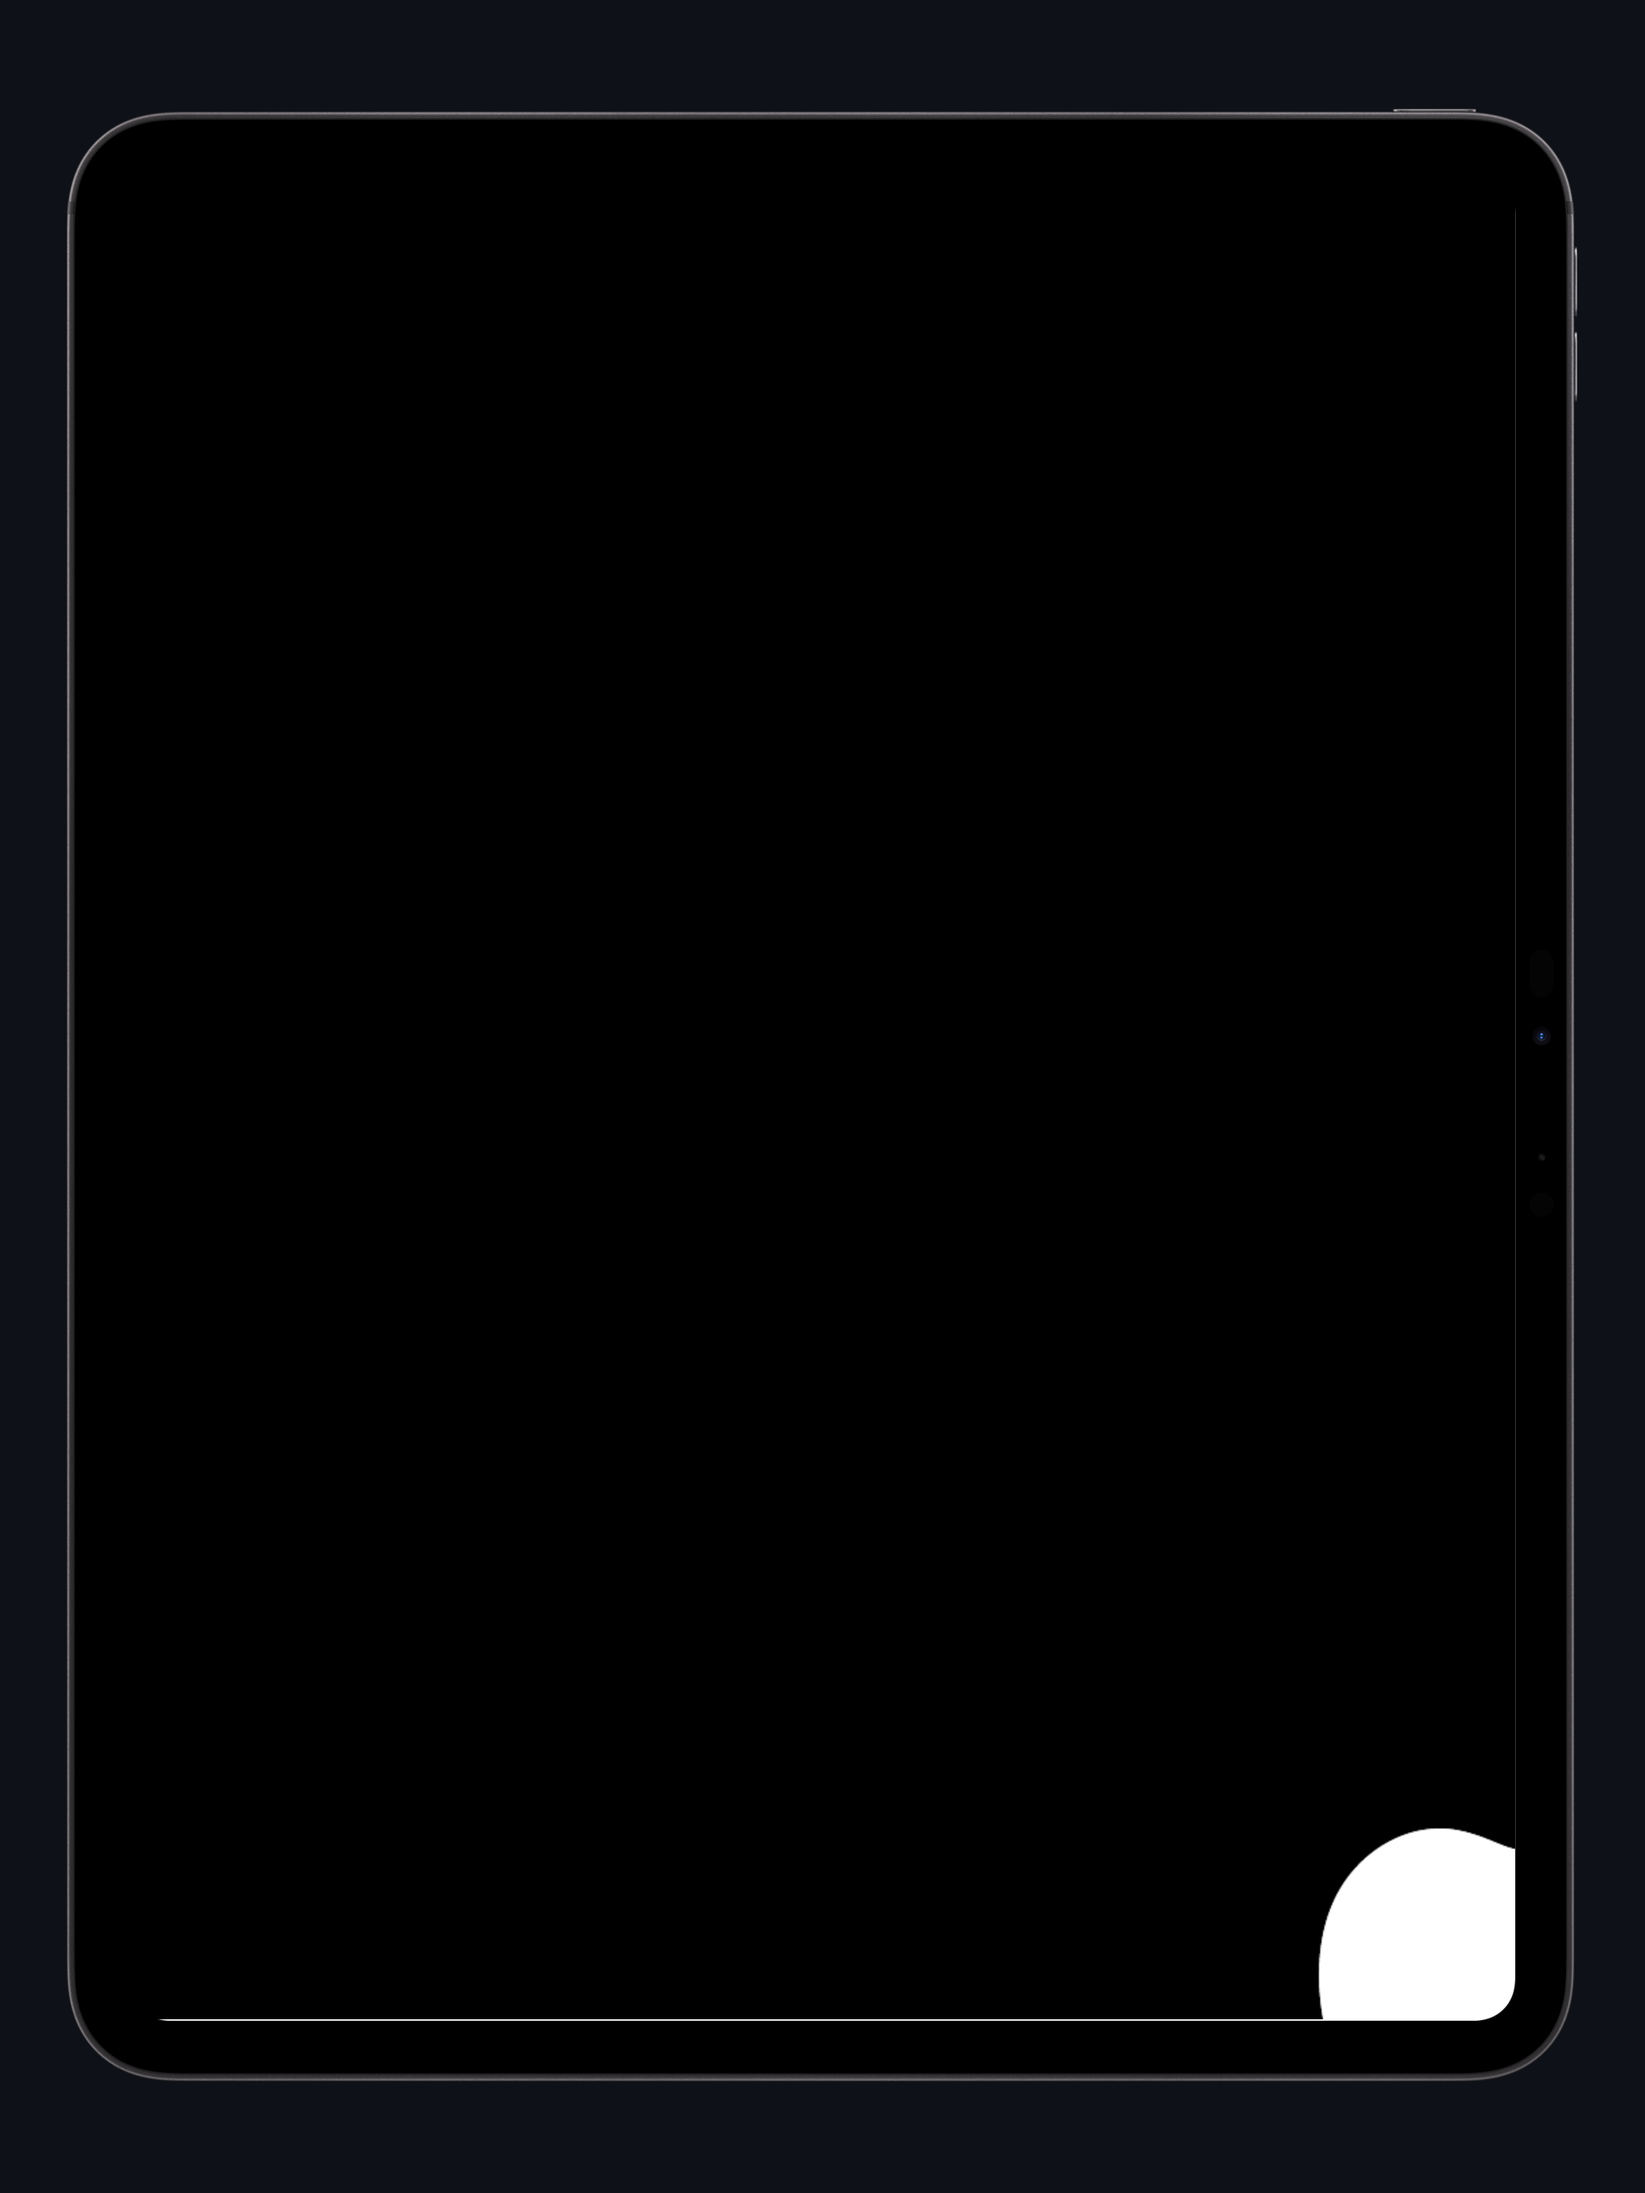
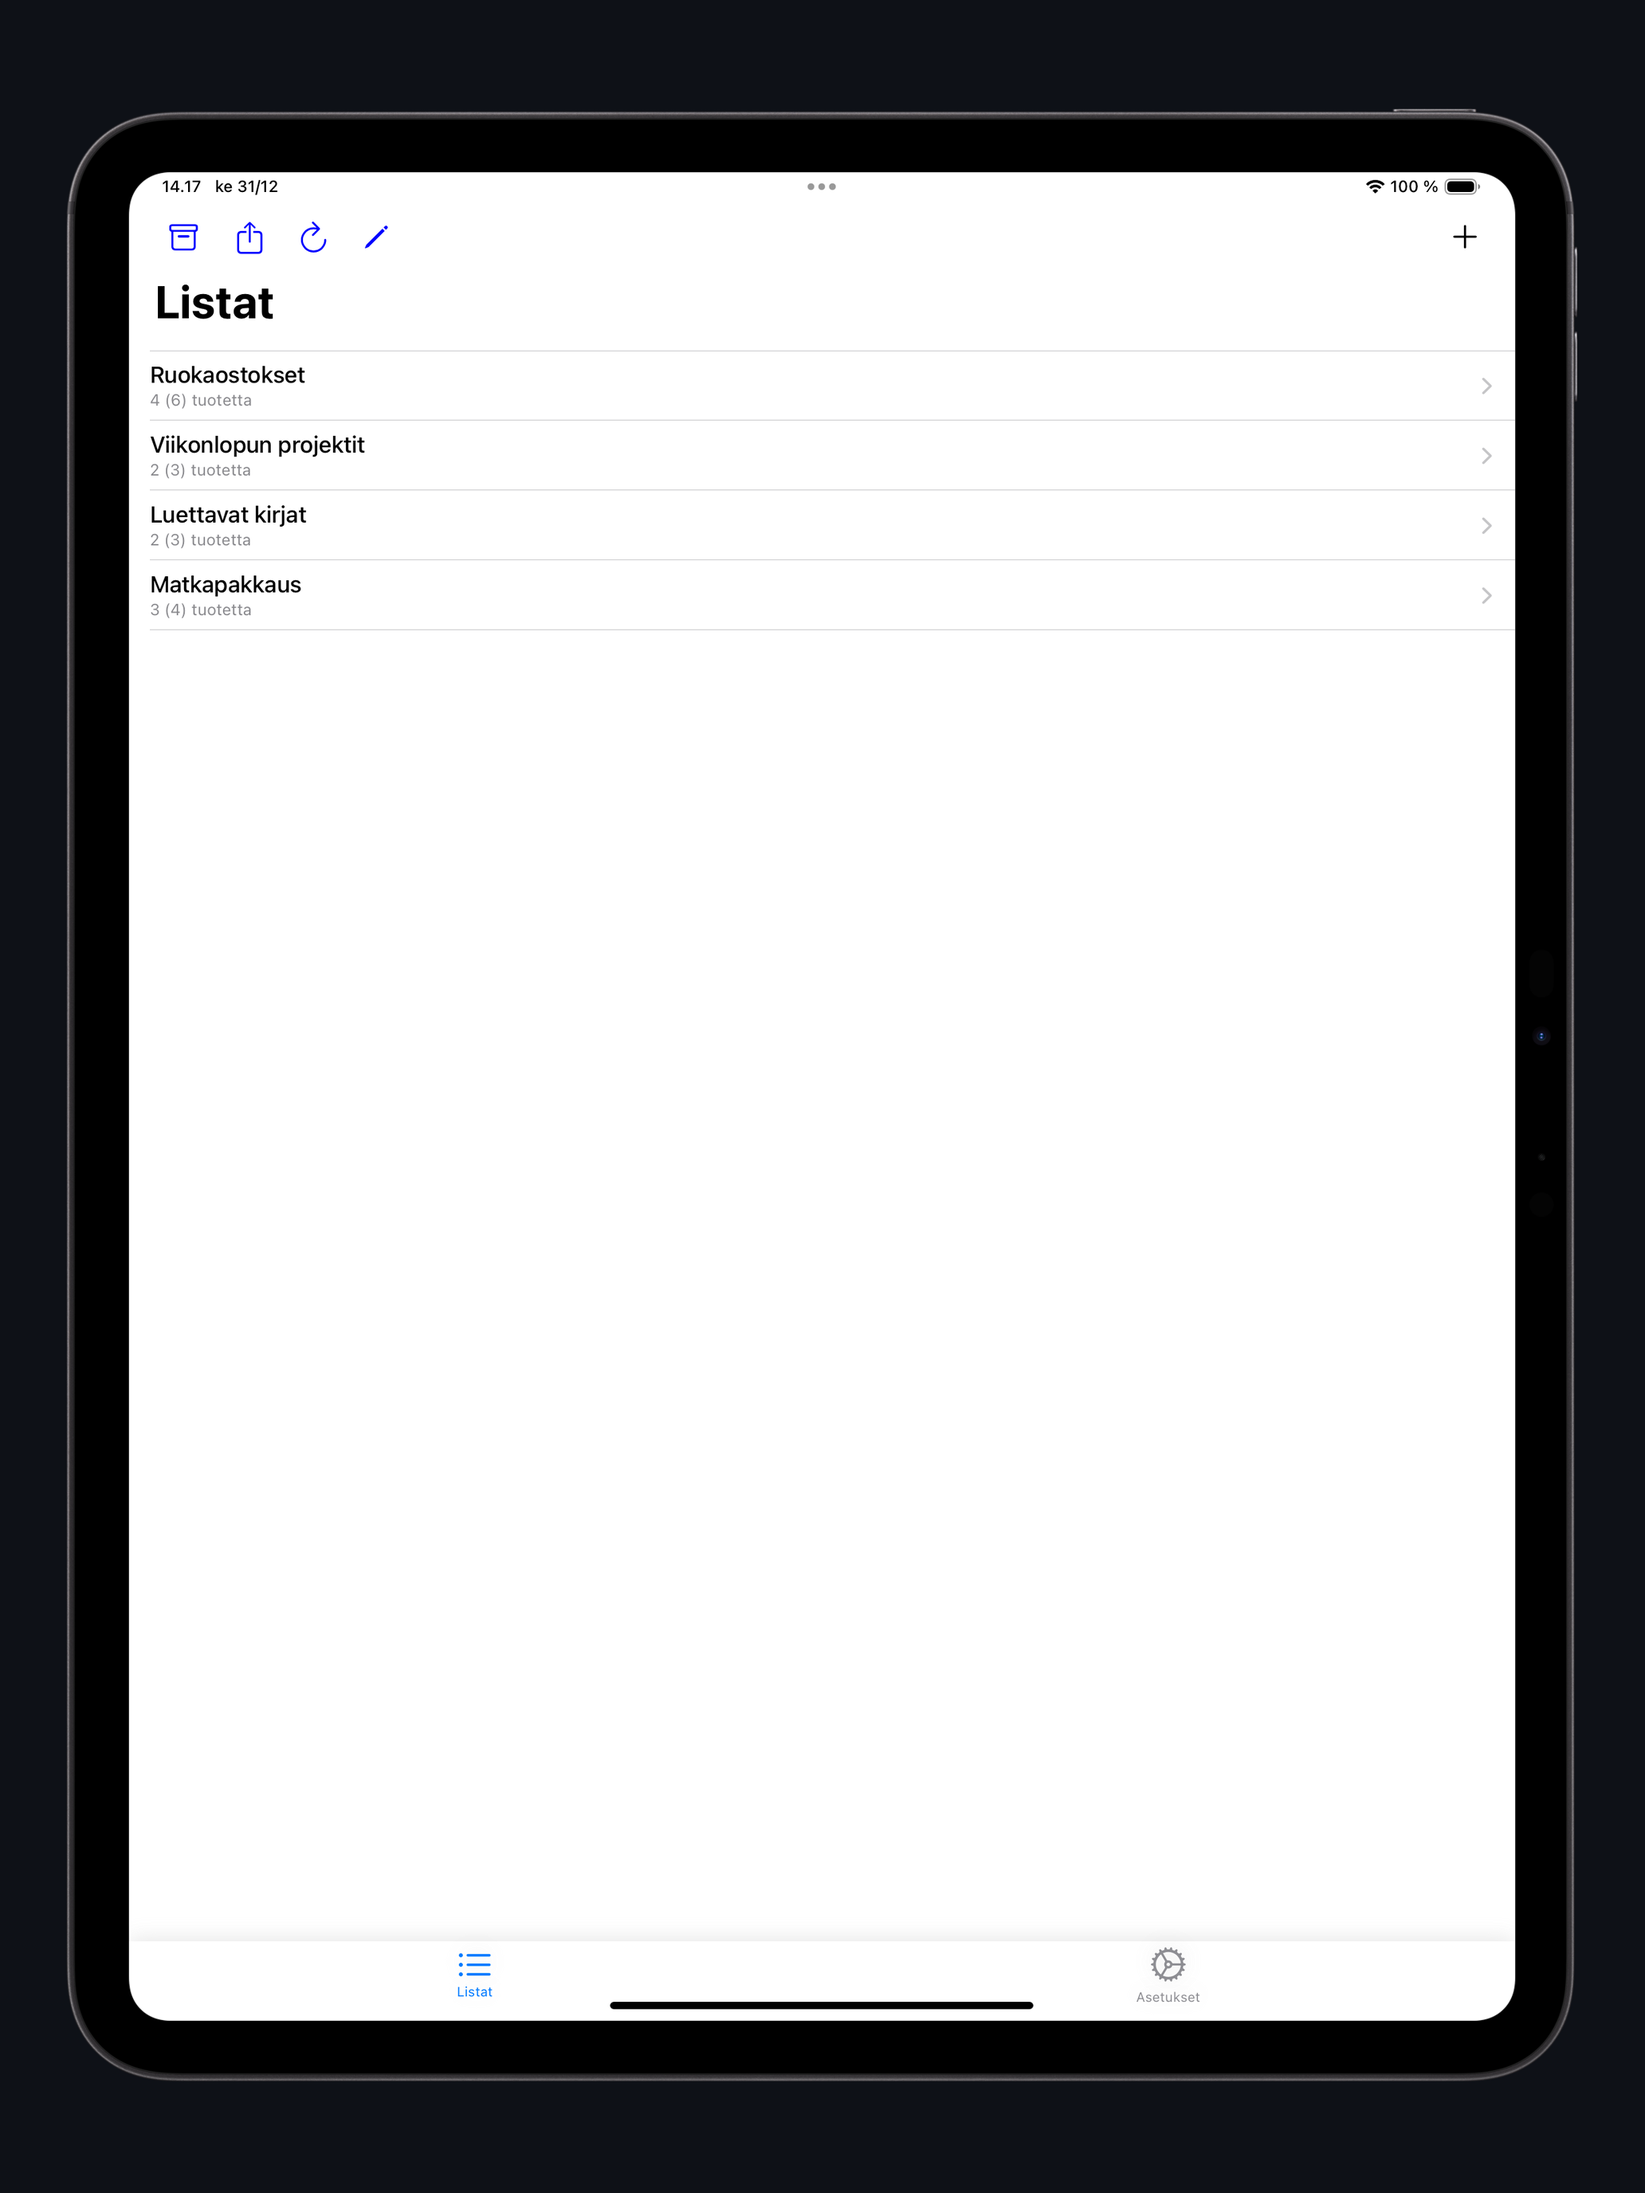
Fix iPad Finnish screenshot race condition
The Finnish iPad 02_MainScreen screenshot was black because the test
proceeded to capture even when list cells weren't found. The iPad +
Finnish locale combination is slower due to locale switching overhead.

Changes:
- Increase elementTimeout from 15s to 30s for iPad compatibility
- Add retry logic with additional 5s wait for slow iPad/locale combos
- FAIL the test if cells aren't found instead of capturing black screenshot
- This prevents unusable screenshots from being generated

🤖 Generated with [Claude Code](https://claude.com/claude-code)

diff --git a/ListAll/ListAllUITests/ListAllUITests_Simple.swift b/ListAll/ListAllUITests/ListAllUITests_Simple.swift
@@ -11,7 +11,8 @@ final class ListAllUITests_Screenshots: XCTestCase {
     private let launchTimeout: TimeInterval = 60
 
     /// Timeout for UI elements to appear after launch
-    private let elementTimeout: TimeInterval = 15
+    /// iPad simulators need significantly more time, especially with locale switching
+    private let elementTimeout: TimeInterval = 30
 
     override func setUpWithError() throws {
         continueAfterFailure = false
@@ -129,13 +130,28 @@ final class ListAllUITests_Screenshots: XCTestCase {
         // Wait for UI to be ready (dynamic wait instead of fixed sleep)
         _ = waitForUIReady()
 
-        // Additional wait for data to load into list
-        // Look for any cell which indicates data is loaded
+        // CRITICAL: Wait for data to load into list - MUST find cells before taking screenshot
+        // iPad + Finnish locale combination is particularly slow due to locale switching overhead
+        // Without this check, we get black screenshots
         let anyCell = app.cells.firstMatch
+
+        // First attempt with standard timeout
         if anyCell.waitForExistence(timeout: elementTimeout) {
             print("✅ Data loaded - found list cells")
         } else {
-            print("⚠ No cells found, but proceeding with screenshot")
+            // iPad may need extra time - wait longer and check again
+            print("⚠ No cells found on first attempt, waiting additional time for iPad/locale...")
+            sleep(5)
+
+            if anyCell.waitForExistence(timeout: elementTimeout) {
+                print("✅ Data loaded on retry - found list cells")
+            } else {
+                // Final check - if still no cells, fail the test rather than capture black screenshot
+                print("❌ CRITICAL: No cells found after extended wait - UI did not render")
+                print("❌ This would result in a black/empty screenshot")
+                XCTFail("List cells not found - data did not load in time. Screenshot would be black.")
+                return
+            }
         }
 
         // Screenshot: Main screen with hardcoded test lists
